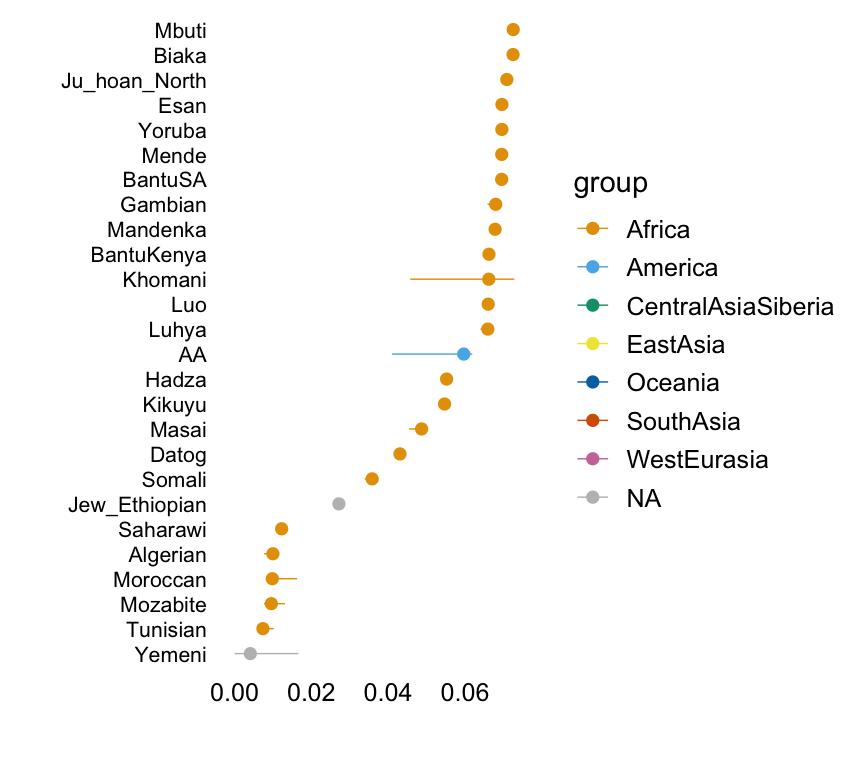
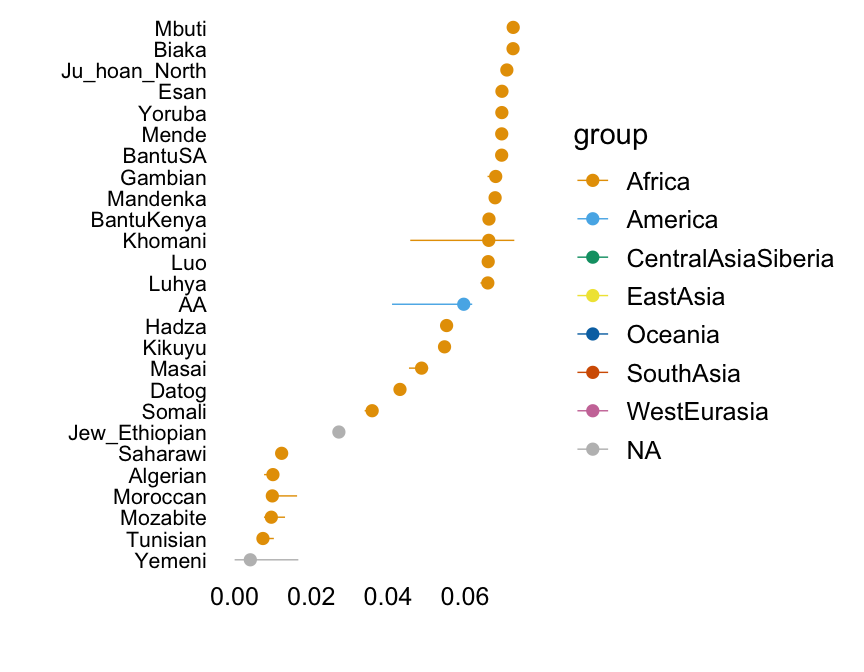
Re-built hoa_global_alt analysis page after some improvements to the plots.

diff --git a/docs/hoa_global_alt.html b/docs/hoa_global_alt.html
@@ -420,10 +420,10 @@ This reproducible <a href="http://rmarkdown.rstudio.com">R Markdown</a> analysis
 <div class="panel panel-default">
 <div class="panel-heading">
 <p class="panel-title">
-<a data-toggle="collapse" data-parent="#workflowr-checks" href="#strongRepositoryversionstrongahrefhttpsgithubcomjhmarcusdriftworkflowtree862414e2b52ded73ae6b11dffec0631bf8beda65targetblank862414ea"> <span class="glyphicon glyphicon-ok text-success" aria-hidden="true"></span> <strong>Repository version:</strong> <a href="https://github.com/jhmarcus/drift-workflow/tree/862414e2b52ded73ae6b11dffec0631bf8beda65" target="_blank">862414e</a> </a>
+<a data-toggle="collapse" data-parent="#workflowr-checks" href="#strongRepositoryversionstrongahrefhttpsgithubcomjhmarcusdriftworkflowtree0d9dd257920dce86998f92b96b413d67ee379386targetblank0d9dd25a"> <span class="glyphicon glyphicon-ok text-success" aria-hidden="true"></span> <strong>Repository version:</strong> <a href="https://github.com/jhmarcus/drift-workflow/tree/0d9dd257920dce86998f92b96b413d67ee379386" target="_blank">0d9dd25</a> </a>
 </p>
 </div>
[2 lines of base64/hex data omitted]
 <div class="panel-body">
 <p>
 Great! You are using Git for version control. Tracking code development and connecting the code version to the results is critical for reproducibility. The version displayed above was the version of the Git repository at the time these results were generated. <br><br> Note that you need to be careful to ensure that all relevant files for the analysis have been committed to Git prior to generating the results (you can use <code>wflow_publish</code> or <code>wflow_git_commit</code>). workflowr only checks the R Markdown file, but you know if there are other scripts or data files that it depends on. Below is the status of the Git repository when the results were generated:
@@ -467,6 +467,40 @@ Message
 </tr>
 </thead>
 <tbody>
+<tr>
+<td>
+Rmd
+</td>
+<td>
+<a href="https://github.com/jhmarcus/drift-workflow/blob/0d9dd257920dce86998f92b96b413d67ee379386/analysis/hoa_global_alt.Rmd" target="_blank">0d9dd25</a>
+</td>
+<td>
+Peter Carbonetto
+</td>
+<td>
+2019-03-14
+</td>
+<td>
+wflow_publish(“hoa_global_alt.Rmd”)
+</td>
+</tr>
+<tr>
+<td>
+html
+</td>
+<td>
+<a href="https://rawcdn.githack.com/jhmarcus/drift-workflow/749f46acb5117c9a62ffbc47e176cd0c36d4efe7/docs/hoa_global_alt.html" target="_blank">749f46a</a>
+</td>
+<td>
+Peter Carbonetto
+</td>
+<td>
+2019-03-14
+</td>
+<td>
+Fixed some of the factor plots in hoa_global_alt page.
+</td>
+</tr>
 <tr>
 <td>
 Rmd
@@ -758,6 +792,17 @@ Date
 <tbody>
 <tr>
 <td>
+<a href="https://github.com/jhmarcus/drift-workflow/blob/749f46acb5117c9a62ffbc47e176cd0c36d4efe7/docs/figure/hoa_global_alt.Rmd/plot-factor-3-1.png" target="_blank">749f46a</a>
+</td>
+<td>
+Peter Carbonetto
+</td>
+<td>
+2019-03-14
+</td>
+</tr>
+<tr>
+<td>
 <a href="https://github.com/jhmarcus/drift-workflow/blob/93a1beca52fc57be6a94d4f9def406e927ac984b/docs/figure/hoa_global_alt.Rmd/plot-factor-3-1.png" target="_blank">93a1bec</a>
 </td>
 <td>
@@ -798,6 +843,17 @@ Date
 </tr>
 </thead>
 <tbody>
+<tr>
+<td>
+<a href="https://github.com/jhmarcus/drift-workflow/blob/749f46acb5117c9a62ffbc47e176cd0c36d4efe7/docs/figure/hoa_global_alt.Rmd/plot-factor-4-1.png" target="_blank">749f46a</a>
+</td>
+<td>
+Peter Carbonetto
+</td>
+<td>
+2019-03-14
+</td>
+</tr>
 <tr>
 <td>
 <a href="https://github.com/jhmarcus/drift-workflow/blob/93a1beca52fc57be6a94d4f9def406e927ac984b/docs/figure/hoa_global_alt.Rmd/plot-factor-4-1.png" target="_blank">93a1bec</a>
@@ -842,6 +898,17 @@ Date
 <tbody>
 <tr>
 <td>
+<a href="https://github.com/jhmarcus/drift-workflow/blob/749f46acb5117c9a62ffbc47e176cd0c36d4efe7/docs/figure/hoa_global_alt.Rmd/plot-factor-5-1.png" target="_blank">749f46a</a>
+</td>
+<td>
+Peter Carbonetto
+</td>
+<td>
+2019-03-14
+</td>
+</tr>
+<tr>
+<td>
 <a href="https://github.com/jhmarcus/drift-workflow/blob/93a1beca52fc57be6a94d4f9def406e927ac984b/docs/figure/hoa_global_alt.Rmd/plot-factor-5-1.png" target="_blank">93a1bec</a>
 </td>
 <td>
@@ -882,6 +949,17 @@ Date
 </tr>
 </thead>
 <tbody>
+<tr>
+<td>
+<a href="https://github.com/jhmarcus/drift-workflow/blob/749f46acb5117c9a62ffbc47e176cd0c36d4efe7/docs/figure/hoa_global_alt.Rmd/plot-factor-6-1.png" target="_blank">749f46a</a>
+</td>
+<td>
+Peter Carbonetto
+</td>
+<td>
+2019-03-14
+</td>
+</tr>
 <tr>
 <td>
 <a href="https://github.com/jhmarcus/drift-workflow/blob/93a1beca52fc57be6a94d4f9def406e927ac984b/docs/figure/hoa_global_alt.Rmd/plot-factor-6-1.png" target="_blank">93a1bec</a>
@@ -926,6 +1004,17 @@ Date
 <tbody>
 <tr>
 <td>
+<a href="https://github.com/jhmarcus/drift-workflow/blob/749f46acb5117c9a62ffbc47e176cd0c36d4efe7/docs/figure/hoa_global_alt.Rmd/plot-factor-7-1.png" target="_blank">749f46a</a>
+</td>
+<td>
+Peter Carbonetto
+</td>
+<td>
+2019-03-14
+</td>
+</tr>
+<tr>
+<td>
 <a href="https://github.com/jhmarcus/drift-workflow/blob/93a1beca52fc57be6a94d4f9def406e927ac984b/docs/figure/hoa_global_alt.Rmd/plot-factor-7-1.png" target="_blank">93a1bec</a>
 </td>
 <td>
@@ -966,6 +1055,17 @@ Date
 </tr>
 </thead>
 <tbody>
+<tr>
+<td>
+<a href="https://github.com/jhmarcus/drift-workflow/blob/749f46acb5117c9a62ffbc47e176cd0c36d4efe7/docs/figure/hoa_global_alt.Rmd/plot-factor-8-1.png" target="_blank">749f46a</a>
+</td>
+<td>
+Peter Carbonetto
+</td>
+<td>
+2019-03-14
+</td>
+</tr>
 <tr>
 <td>
 <a href="https://github.com/jhmarcus/drift-workflow/blob/93a1beca52fc57be6a94d4f9def406e927ac984b/docs/figure/hoa_global_alt.Rmd/plot-factor-8-1.png" target="_blank">93a1bec</a>
@@ -1010,6 +1110,17 @@ Date
 <tbody>
 <tr>
 <td>
+<a href="https://github.com/jhmarcus/drift-workflow/blob/749f46acb5117c9a62ffbc47e176cd0c36d4efe7/docs/figure/hoa_global_alt.Rmd/plot-factor-9-1.png" target="_blank">749f46a</a>
+</td>
+<td>
+Peter Carbonetto
+</td>
+<td>
+2019-03-14
+</td>
+</tr>
+<tr>
+<td>
 <a href="https://github.com/jhmarcus/drift-workflow/blob/93a1beca52fc57be6a94d4f9def406e927ac984b/docs/figure/hoa_global_alt.Rmd/plot-factor-9-1.png" target="_blank">93a1bec</a>
 </td>
 <td>
@@ -1050,6 +1161,17 @@ Date
 </tr>
 </thead>
 <tbody>
+<tr>
+<td>
+<a href="https://github.com/jhmarcus/drift-workflow/blob/749f46acb5117c9a62ffbc47e176cd0c36d4efe7/docs/figure/hoa_global_alt.Rmd/plot-factor-10-1.png" target="_blank">749f46a</a>
+</td>
+<td>
+Peter Carbonetto
+</td>
+<td>
+2019-03-14
+</td>
+</tr>
 <tr>
 <td>
 <a href="https://github.com/jhmarcus/drift-workflow/blob/93a1beca52fc57be6a94d4f9def406e927ac984b/docs/figure/hoa_global_alt.Rmd/plot-factor-10-1.png" target="_blank">93a1bec</a>
